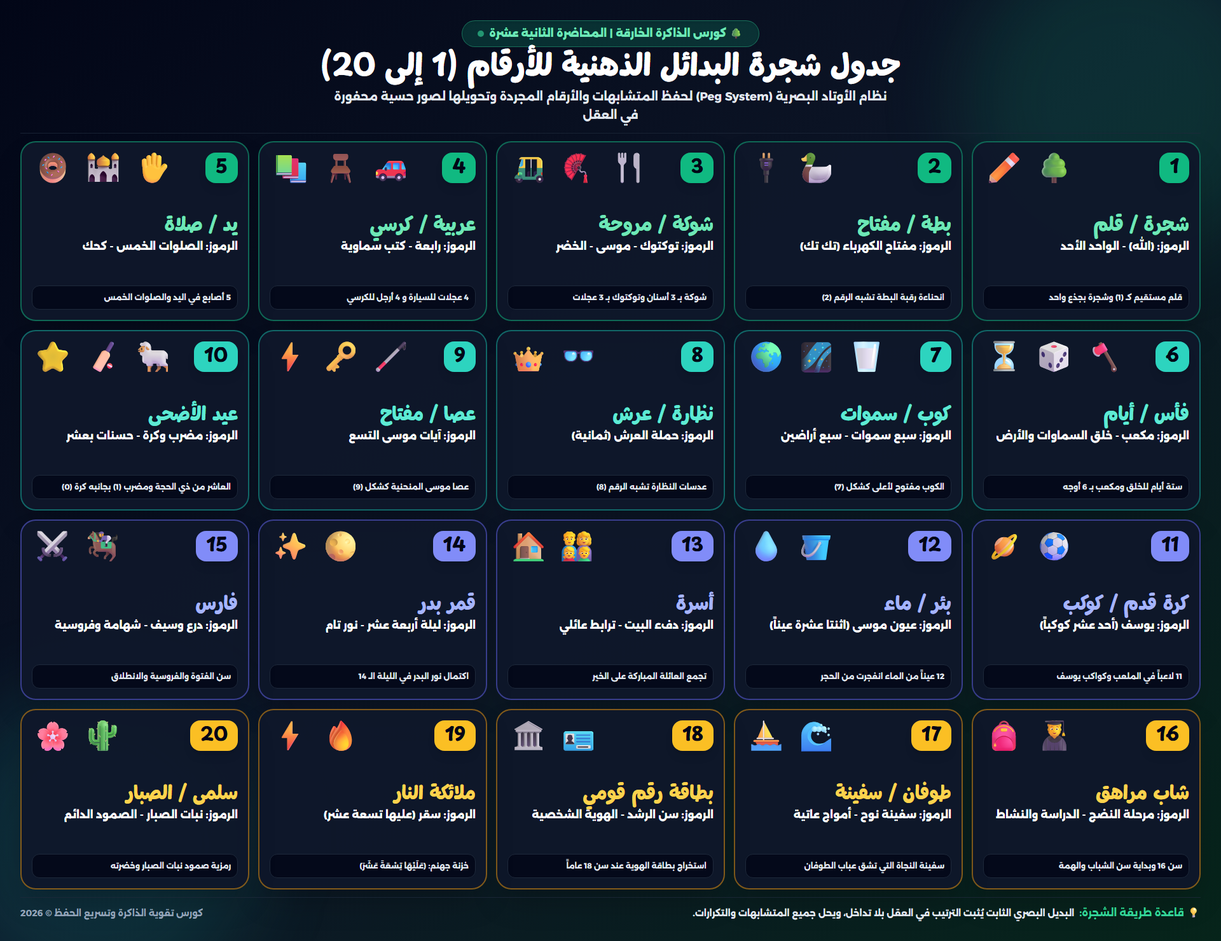
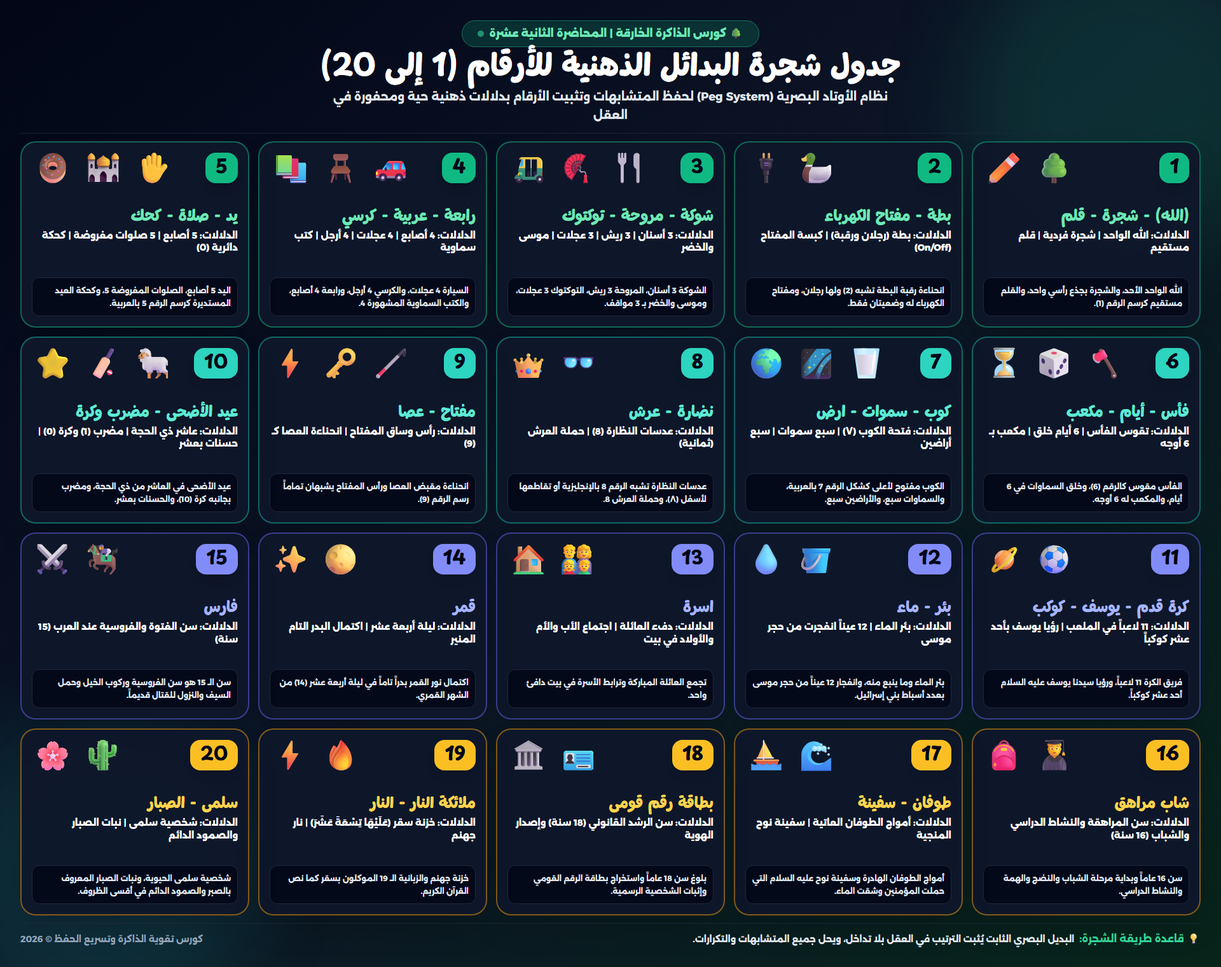
Update tree pegs chart with exact slide titles and explicit indications matching 100%

diff --git a/render_chart.html b/render_chart.html
@@ -29,7 +29,7 @@
       margin: 0;
       padding: 0;
       width: 1920px;
-      height: 1480px;
+      height: 1520px;
       overflow: hidden;
       background: #090d16;
     }
@@ -51,7 +51,7 @@
       جدول شجرة البدائل الذهنية للأرقام (1 إلى 20)
     </h1>
     <p class="text-lg text-slate-200 font-bold max-w-4xl mx-auto leading-relaxed">
-      نظام الأوتاد البصرية (Peg System) لحفظ المتشابهات والأرقام المجردة وتحويلها لصور حسية محفورة في العقل
+      نظام الأوتاد البصرية (Peg System) لحفظ المتشابهات وتثبيت الأرقام بدلالات ذهنية حية ومحفورة في العقل
     </p>
   </div>
 
@@ -65,11 +65,11 @@
         <span class="text-5xl">🌳 ✏</span>
       </div>
       <div class="space-y-1 my-1">
-        <div class="text-3xl font-black text-emerald-300 font-playpen">شجرة / قلم</div>
-        <div class="text-base text-white font-extrabold leading-snug">الرموز: (الله) - الواحد الأحد</div>
+        <div class="text-2xl font-black text-emerald-300 font-playpen">(الله) - شجرة - قلم</div>
+        <div class="text-sm text-white font-extrabold leading-snug">الدلالات: الله الواحد | شجرة فردية | قلم مستقيم</div>
       </div>
-      <div class="text-xs text-slate-200 font-bold bg-slate-950/80 p-2.5 rounded-xl border border-slate-800">
-        قلم مستقيم كـ (1) وشجرة بجذع واحد
+      <div class="text-xs text-slate-200 font-bold bg-slate-950/80 p-2.5 rounded-xl border border-slate-800 leading-relaxed">
+        الله الواحد الأحد، والشجرة بجذع رأسي واحد، والقلم مستقيم كرسم الرقم (1).
       </div>
     </div>
 
@@ -80,11 +80,11 @@
         <span class="text-5xl">🦆 🔌</span>
       </div>
       <div class="space-y-1 my-1">
-        <div class="text-3xl font-black text-emerald-300 font-playpen">بطة / مفتاح</div>
-        <div class="text-base text-white font-extrabold leading-snug">الرموز: مفتاح الكهرباء (تك تك)</div>
+        <div class="text-2xl font-black text-emerald-300 font-playpen">بطة - مفتاح الكهرباء</div>
+        <div class="text-sm text-white font-extrabold leading-snug">الدلالات: بطة (رجلان ورقبة) | كبسة المفتاح (On/Off)</div>
       </div>
-      <div class="text-xs text-slate-200 font-bold bg-slate-950/80 p-2.5 rounded-xl border border-slate-800">
-        انحناءة رقبة البطة تشبه الرقم (2)
+      <div class="text-xs text-slate-200 font-bold bg-slate-950/80 p-2.5 rounded-xl border border-slate-800 leading-relaxed">
+        انحناءة رقبة البطة تشبه (2) ولها رجلان، ومفتاح الكهرباء له وضعيتان فقط.
       </div>
     </div>
 
@@ -95,11 +95,11 @@
         <span class="text-5xl">🍴 🪭 🛺</span>
       </div>
       <div class="space-y-1 my-1">
-        <div class="text-3xl font-black text-emerald-300 font-playpen">شوكة / مروحة</div>
-        <div class="text-base text-white font-extrabold leading-snug">الرموز: توكتوك - موسى - الخضر</div>
+        <div class="text-2xl font-black text-emerald-300 font-playpen">شوكة - مروحة - توكتوك</div>
+        <div class="text-sm text-white font-extrabold leading-snug">الدلالات: 3 أسنان | 3 ريش | 3 عجلات | موسى والخضر</div>
       </div>
-      <div class="text-xs text-slate-200 font-bold bg-slate-950/80 p-2.5 rounded-xl border border-slate-800">
-        شوكة بـ 3 أسنان وتوكتوك بـ 3 عجلات
+      <div class="text-xs text-slate-200 font-bold bg-slate-950/80 p-2.5 rounded-xl border border-slate-800 leading-relaxed">
+        الشوكة 3 أسنان، المروحة 3 ريش، التوكتوك 3 عجلات، وموسى والخضر بـ 3 مواقف.
       </div>
     </div>
 
@@ -110,11 +110,11 @@
         <span class="text-5xl">🚗 🪑 📚</span>
       </div>
       <div class="space-y-1 my-1">
-        <div class="text-3xl font-black text-emerald-300 font-playpen">عربية / كرسي</div>
-        <div class="text-base text-white font-extrabold leading-snug">الرموز: رابعة - كتب سماوية</div>
+        <div class="text-2xl font-black text-emerald-300 font-playpen">رابعة - عربية - كرسي</div>
+        <div class="text-sm text-white font-extrabold leading-snug">الدلالات: 4 أصابع | 4 عجلات | 4 أرجل | كتب سماوية</div>
       </div>
-      <div class="text-xs text-slate-200 font-bold bg-slate-950/80 p-2.5 rounded-xl border border-slate-800">
-        4 عجلات للسيارة و 4 أرجل للكرسي
+      <div class="text-xs text-slate-200 font-bold bg-slate-950/80 p-2.5 rounded-xl border border-slate-800 leading-relaxed">
+        السيارة 4 عجلات، والكرسي 4 أرجل، ورابعة 4 أصابع، والكتب السماوية المشهورة 4.
       </div>
     </div>
 
@@ -125,11 +125,11 @@
         <span class="text-5xl">✋ 🕌 🍩</span>
       </div>
       <div class="space-y-1 my-1">
-        <div class="text-3xl font-black text-emerald-300 font-playpen">يد / صلاة</div>
-        <div class="text-base text-white font-extrabold leading-snug">الرموز: الصلوات الخمس - كحك</div>
+        <div class="text-2xl font-black text-emerald-300 font-playpen">يد - صلاة - كحك</div>
+        <div class="text-sm text-white font-extrabold leading-snug">الدلالات: 5 أصابع | 5 صلوات مفروضة | كحكة دائرية (٥)</div>
       </div>
-      <div class="text-xs text-slate-200 font-bold bg-slate-950/80 p-2.5 rounded-xl border border-slate-800">
-        5 أصابع في اليد والصلوات الخمس
+      <div class="text-xs text-slate-200 font-bold bg-slate-950/80 p-2.5 rounded-xl border border-slate-800 leading-relaxed">
+        اليد 5 أصابع، الصلوات المفروضة 5، وكحكة العيد المستديرة كرسم الرقم 5 بالعربية.
       </div>
     </div>
 
@@ -140,11 +140,11 @@
         <span class="text-5xl">🪓 🎲 ⏳</span>
       </div>
       <div class="space-y-1 my-1">
-        <div class="text-3xl font-black text-teal-300 font-playpen">فأس / أيام</div>
-        <div class="text-base text-white font-extrabold leading-snug">الرموز: مكعب - خلق السماوات والأرض</div>
+        <div class="text-2xl font-black text-teal-300 font-playpen">فأس - أيام - مكعب</div>
+        <div class="text-sm text-white font-extrabold leading-snug">الدلالات: تقوس الفأس | 6 أيام خلق | مكعب بـ 6 أوجه</div>
       </div>
-      <div class="text-xs text-slate-200 font-bold bg-slate-950/80 p-2.5 rounded-xl border border-slate-800">
-        ستة أيام للخلق ومكعب بـ 6 أوجه
+      <div class="text-xs text-slate-200 font-bold bg-slate-950/80 p-2.5 rounded-xl border border-slate-800 leading-relaxed">
+        الفأس مقوس كالرقم (6)، وخلق السماوات في 6 أيام، والمكعب له 6 أوجه.
       </div>
     </div>
 
@@ -155,11 +155,11 @@
         <span class="text-5xl">🥛 🌌 🌍</span>
       </div>
       <div class="space-y-1 my-1">
-        <div class="text-3xl font-black text-teal-300 font-playpen">كوب / سموات</div>
-        <div class="text-base text-white font-extrabold leading-snug">الرموز: سبع سموات - سبع أراضين</div>
+        <div class="text-2xl font-black text-teal-300 font-playpen">كوب - سموات - ارض</div>
+        <div class="text-sm text-white font-extrabold leading-snug">الدلالات: فتحة الكوب (٧) | سبع سموات | سبع أراضين</div>
       </div>
-      <div class="text-xs text-slate-200 font-bold bg-slate-950/80 p-2.5 rounded-xl border border-slate-800">
-        الكوب مفتوح لأعلى كشكل (7)
+      <div class="text-xs text-slate-200 font-bold bg-slate-950/80 p-2.5 rounded-xl border border-slate-800 leading-relaxed">
+        الكوب مفتوح لأعلى كشكل الرقم 7 بالعربية، والسماوات سبع، والأراضين سبع.
       </div>
     </div>
 
@@ -170,11 +170,11 @@
         <span class="text-5xl">👓 👑</span>
       </div>
       <div class="space-y-1 my-1">
-        <div class="text-3xl font-black text-teal-300 font-playpen">نظارة / عرش</div>
-        <div class="text-base text-white font-extrabold leading-snug">الرموز: حملة العرش (ثمانية)</div>
+        <div class="text-2xl font-black text-teal-300 font-playpen">نضارة - عرش</div>
+        <div class="text-sm text-white font-extrabold leading-snug">الدلالات: عدسات النظارة (8) | حملة العرش (ثمانية)</div>
       </div>
-      <div class="text-xs text-slate-200 font-bold bg-slate-950/80 p-2.5 rounded-xl border border-slate-800">
-        عدسات النظارة تشبه الرقم (8)
+      <div class="text-xs text-slate-200 font-bold bg-slate-950/80 p-2.5 rounded-xl border border-slate-800 leading-relaxed">
+        عدسات النظارة تشبه الرقم 8 بالإنجليزية أو تقاطعها لأسفل (٨)، وحملة العرش 8.
       </div>
     </div>
 
@@ -185,11 +185,11 @@
         <span class="text-5xl">🦯 🗝 ⚡</span>
       </div>
       <div class="space-y-1 my-1">
-        <div class="text-3xl font-black text-teal-300 font-playpen">عصا / مفتاح</div>
-        <div class="text-base text-white font-extrabold leading-snug">الرموز: آيات موسى التسع</div>
+        <div class="text-2xl font-black text-teal-300 font-playpen">مفتاح - عصا</div>
+        <div class="text-sm text-white font-extrabold leading-snug">الدلالات: رأس وساق المفتاح | انحناءة العصا كـ (9)</div>
       </div>
-      <div class="text-xs text-slate-200 font-bold bg-slate-950/80 p-2.5 rounded-xl border border-slate-800">
-        عصا موسى المنحنية كشكل (9)
+      <div class="text-xs text-slate-200 font-bold bg-slate-950/80 p-2.5 rounded-xl border border-slate-800 leading-relaxed">
+        انحناءة مقبض العصا ورأس المفتاح يشبهان تماماً رسم الرقم (9).
       </div>
     </div>
 
@@ -200,11 +200,11 @@
         <span class="text-5xl">🐑 🏏 ⭐</span>
       </div>
       <div class="space-y-1 my-1">
-        <div class="text-3xl font-black text-teal-300 font-playpen">عيد الأضحى</div>
-        <div class="text-base text-white font-extrabold leading-snug">الرموز: مضرب وكرة - حسنات بعشر</div>
+        <div class="text-2xl font-black text-teal-300 font-playpen">عيد الأضحى - مضرب وكرة</div>
+        <div class="text-sm text-white font-extrabold leading-snug">الدلالات: عاشر ذي الحجة | مضرب (1) وكرة (0) | حسنات بعشر</div>
       </div>
-      <div class="text-xs text-slate-200 font-bold bg-slate-950/80 p-2.5 rounded-xl border border-slate-800">
-        العاشر من ذي الحجة ومضرب (1) بجانبه كرة (0)
+      <div class="text-xs text-slate-200 font-bold bg-slate-950/80 p-2.5 rounded-xl border border-slate-800 leading-relaxed">
+        عيد الأضحى في العاشر من ذي الحجة، ومضرب بجانبه كرة (10)، والحسنات بعشر.
       </div>
     </div>
 
@@ -215,11 +215,11 @@
         <span class="text-5xl">⚽ 🪐</span>
       </div>
       <div class="space-y-1 my-1">
-        <div class="text-3xl font-black text-indigo-300 font-playpen">كرة قدم / كوكب</div>
-        <div class="text-base text-white font-extrabold leading-snug">الرموز: يوسف (أحد عشر كوكباً)</div>
+        <div class="text-2xl font-black text-indigo-300 font-playpen">كرة قدم - يوسف - كوكب</div>
+        <div class="text-sm text-white font-extrabold leading-snug">الدلالات: 11 لاعباً في الملعب | رؤيا يوسف بأحد عشر كوكباً</div>
       </div>
-      <div class="text-xs text-slate-200 font-bold bg-slate-950/80 p-2.5 rounded-xl border border-slate-800">
-        11 لاعباً في الملعب وكواكب يوسف
+      <div class="text-xs text-slate-200 font-bold bg-slate-950/80 p-2.5 rounded-xl border border-slate-800 leading-relaxed">
+        فريق الكرة 11 لاعباً، ورؤيا سيدنا يوسف عليه السلام أحد عشر كوكباً.
       </div>
     </div>
 
@@ -230,11 +230,11 @@
         <span class="text-5xl">🪣 💧</span>
       </div>
       <div class="space-y-1 my-1">
-        <div class="text-3xl font-black text-indigo-300 font-playpen">بئر / ماء</div>
-        <div class="text-base text-white font-extrabold leading-snug">الرموز: عيون موسى (اثنتا عشرة عيناً)</div>
+        <div class="text-2xl font-black text-indigo-300 font-playpen">بئر - ماء</div>
+        <div class="text-sm text-white font-extrabold leading-snug">الدلالات: بئر الماء | 12 عيناً انفجرت من حجر موسى</div>
       </div>
-      <div class="text-xs text-slate-200 font-bold bg-slate-950/80 p-2.5 rounded-xl border border-slate-800">
-        12 عيناً من الماء انفجرت من الحجر
+      <div class="text-xs text-slate-200 font-bold bg-slate-950/80 p-2.5 rounded-xl border border-slate-800 leading-relaxed">
+        بئر الماء وما ينبع منه، وانفجار 12 عيناً من حجر موسى بعدد أسباط بني إسرائيل.
       </div>
     </div>
 
@@ -245,11 +245,11 @@
         <span class="text-5xl">👨👩👧👦 🏠</span>
       </div>
       <div class="space-y-1 my-1">
-        <div class="text-3xl font-black text-indigo-300 font-playpen">أسرة</div>
-        <div class="text-base text-white font-extrabold leading-snug">الرموز: دفء البيت - ترابط عائلي</div>
+        <div class="text-2xl font-black text-indigo-300 font-playpen">اسرة</div>
+        <div class="text-sm text-white font-extrabold leading-snug">الدلالات: دفء العائلة | اجتماع الأب والأم والأولاد في بيت</div>
       </div>
-      <div class="text-xs text-slate-200 font-bold bg-slate-950/80 p-2.5 rounded-xl border border-slate-800">
-        تجمع العائلة المباركة على الخير
+      <div class="text-xs text-slate-200 font-bold bg-slate-950/80 p-2.5 rounded-xl border border-slate-800 leading-relaxed">
+        تجمع العائلة المباركة وترابط الأسرة في بيت دافئ واحد.
       </div>
     </div>
 
@@ -260,11 +260,11 @@
         <span class="text-5xl">🌕 ✨</span>
       </div>
       <div class="space-y-1 my-1">
-        <div class="text-3xl font-black text-indigo-300 font-playpen">قمر بدر</div>
-        <div class="text-base text-white font-extrabold leading-snug">الرموز: ليلة أربعة عشر - نور تام</div>
+        <div class="text-2xl font-black text-indigo-300 font-playpen">قمر</div>
+        <div class="text-sm text-white font-extrabold leading-snug">الدلالات: ليلة أربعة عشر | اكتمال البدر التام المنير</div>
       </div>
-      <div class="text-xs text-slate-200 font-bold bg-slate-950/80 p-2.5 rounded-xl border border-slate-800">
-        اكتمال نور البدر في الليلة الـ 14
+      <div class="text-xs text-slate-200 font-bold bg-slate-950/80 p-2.5 rounded-xl border border-slate-800 leading-relaxed">
+        اكتمال نور القمر بدراً تاماً في ليلة أربعة عشر (14) من الشهر القمري.
       </div>
     </div>
 
@@ -275,11 +275,11 @@
         <span class="text-5xl">🏇 ⚔</span>
       </div>
       <div class="space-y-1 my-1">
-        <div class="text-3xl font-black text-indigo-300 font-playpen">فارس</div>
-        <div class="text-base text-white font-extrabold leading-snug">الرموز: درع وسيف - شهامة وفروسية</div>
+        <div class="text-2xl font-black text-indigo-300 font-playpen">فارس</div>
+        <div class="text-sm text-white font-extrabold leading-snug">الدلالات: سن الفتوة والفروسية عند العرب (15 سنة)</div>
       </div>
-      <div class="text-xs text-slate-200 font-bold bg-slate-950/80 p-2.5 rounded-xl border border-slate-800">
-        سن الفتوة والفروسية والانطلاق
+      <div class="text-xs text-slate-200 font-bold bg-slate-950/80 p-2.5 rounded-xl border border-slate-800 leading-relaxed">
+        سن الـ 15 هو سن الفروسية وركوب الخيل وحمل السيف والنزول للقتال قديماً.
       </div>
     </div>
 
@@ -290,11 +290,11 @@
         <span class="text-5xl">🧑🎓 🎒</span>
       </div>
       <div class="space-y-1 my-1">
-        <div class="text-3xl font-black text-amber-300 font-playpen">شاب مراهق</div>
-        <div class="text-base text-white font-extrabold leading-snug">الرموز: مرحلة النضج - الدراسة والنشاط</div>
+        <div class="text-2xl font-black text-amber-300 font-playpen">شاب مراهق</div>
+        <div class="text-sm text-white font-extrabold leading-snug">الدلالات: سن المراهقة والنشاط الدراسي والشباب (16 سنة)</div>
       </div>
-      <div class="text-xs text-slate-200 font-bold bg-slate-950/80 p-2.5 rounded-xl border border-slate-800">
-        سن 16 وبداية سن الشباب والهمة
+      <div class="text-xs text-slate-200 font-bold bg-slate-950/80 p-2.5 rounded-xl border border-slate-800 leading-relaxed">
+        سن 16 عاماً وبداية مرحلة الشباب والنضج والهمة والنشاط الدراسي.
       </div>
     </div>
 
@@ -305,11 +305,11 @@
         <span class="text-5xl">🌊 ⛵</span>
       </div>
       <div class="space-y-1 my-1">
-        <div class="text-3xl font-black text-amber-300 font-playpen">طوفان / سفينة</div>
-        <div class="text-base text-white font-extrabold leading-snug">الرموز: سفينة نوح - أمواج عاتية</div>
+        <div class="text-2xl font-black text-amber-300 font-playpen">طوفان - سفينة</div>
+        <div class="text-sm text-white font-extrabold leading-snug">الدلالات: أمواج الطوفان العاتية | سفينة نوح المنجية</div>
       </div>
-      <div class="text-xs text-slate-200 font-bold bg-slate-950/80 p-2.5 rounded-xl border border-slate-800">
-        سفينة النجاة التي تشق عباب الطوفان
+      <div class="text-xs text-slate-200 font-bold bg-slate-950/80 p-2.5 rounded-xl border border-slate-800 leading-relaxed">
+        أمواج الطوفان الهادرة وسفينة نوح عليه السلام التي حملت المؤمنين وشقت الماء.
       </div>
     </div>
 
@@ -320,11 +320,11 @@
         <span class="text-5xl">🪪 🏛</span>
       </div>
       <div class="space-y-1 my-1">
-        <div class="text-3xl font-black text-amber-300 font-playpen">بطاقة رقم قومي</div>
-        <div class="text-base text-white font-extrabold leading-snug">الرموز: سن الرشد - الهوية الشخصية</div>
+        <div class="text-2xl font-black text-amber-300 font-playpen">بطاقة رقم قومى</div>
+        <div class="text-sm text-white font-extrabold leading-snug">الدلالات: سن الرشد القانوني (18 سنة) وإصدار الهوية</div>
       </div>
-      <div class="text-xs text-slate-200 font-bold bg-slate-950/80 p-2.5 rounded-xl border border-slate-800">
-        استخراج بطاقة الهوية عند سن 18 عاماً
+      <div class="text-xs text-slate-200 font-bold bg-slate-950/80 p-2.5 rounded-xl border border-slate-800 leading-relaxed">
+        بلوغ سن 18 عاماً واستخراج بطاقة الرقم القومي وإثبات الشخصية الرسمية.
       </div>
     </div>
 
@@ -335,11 +335,11 @@
         <span class="text-5xl">🔥 ⚡</span>
       </div>
       <div class="space-y-1 my-1">
-        <div class="text-3xl font-black text-amber-300 font-playpen">ملائكة النار</div>
-        <div class="text-base text-white font-extrabold leading-snug">الرموز: سقر (عليها تسعة عشر)</div>
+        <div class="text-2xl font-black text-amber-300 font-playpen">ملائكة النار - النار</div>
+        <div class="text-sm text-white font-extrabold leading-snug">الدلالات: خزنة سقر ﴿عَلَيْهَا تِسْعَةَ عَشَرَ﴾ | نار جهنم</div>
       </div>
-      <div class="text-xs text-slate-200 font-bold bg-slate-950/80 p-2.5 rounded-xl border border-slate-800">
-        خزنة جهنم: ﴿عَلَيْهَا تِسْعَةَ عَشَرَ﴾
+      <div class="text-xs text-slate-200 font-bold bg-slate-950/80 p-2.5 rounded-xl border border-slate-800 leading-relaxed">
+        خزنة جهنم والزبانية الـ 19 الموكلون بسقر كما نص القرآن الكريم.
       </div>
     </div>
 
@@ -350,11 +350,11 @@
         <span class="text-5xl">🌵 🌸</span>
       </div>
       <div class="space-y-1 my-1">
-        <div class="text-3xl font-black text-amber-300 font-playpen">سلمى / الصبار</div>
-        <div class="text-base text-white font-extrabold leading-snug">الرموز: نبات الصبار - الصمود الدائم</div>
+        <div class="text-2xl font-black text-amber-300 font-playpen">سلمى - الصبار</div>
+        <div class="text-sm text-white font-extrabold leading-snug">الدلالات: شخصية سلمى | نبات الصبار والصمود الدائم</div>
       </div>
-      <div class="text-xs text-slate-200 font-bold bg-slate-950/80 p-2.5 rounded-xl border border-slate-800">
-        رمزية صمود نبات الصبار وخضرته
+      <div class="text-xs text-slate-200 font-bold bg-slate-950/80 p-2.5 rounded-xl border border-slate-800 leading-relaxed">
+        شخصية سلمى الحيوية، ونبات الصبار المعروف بالصبر والصمود الدائم في أقسى الظروف.
       </div>
     </div>
 
